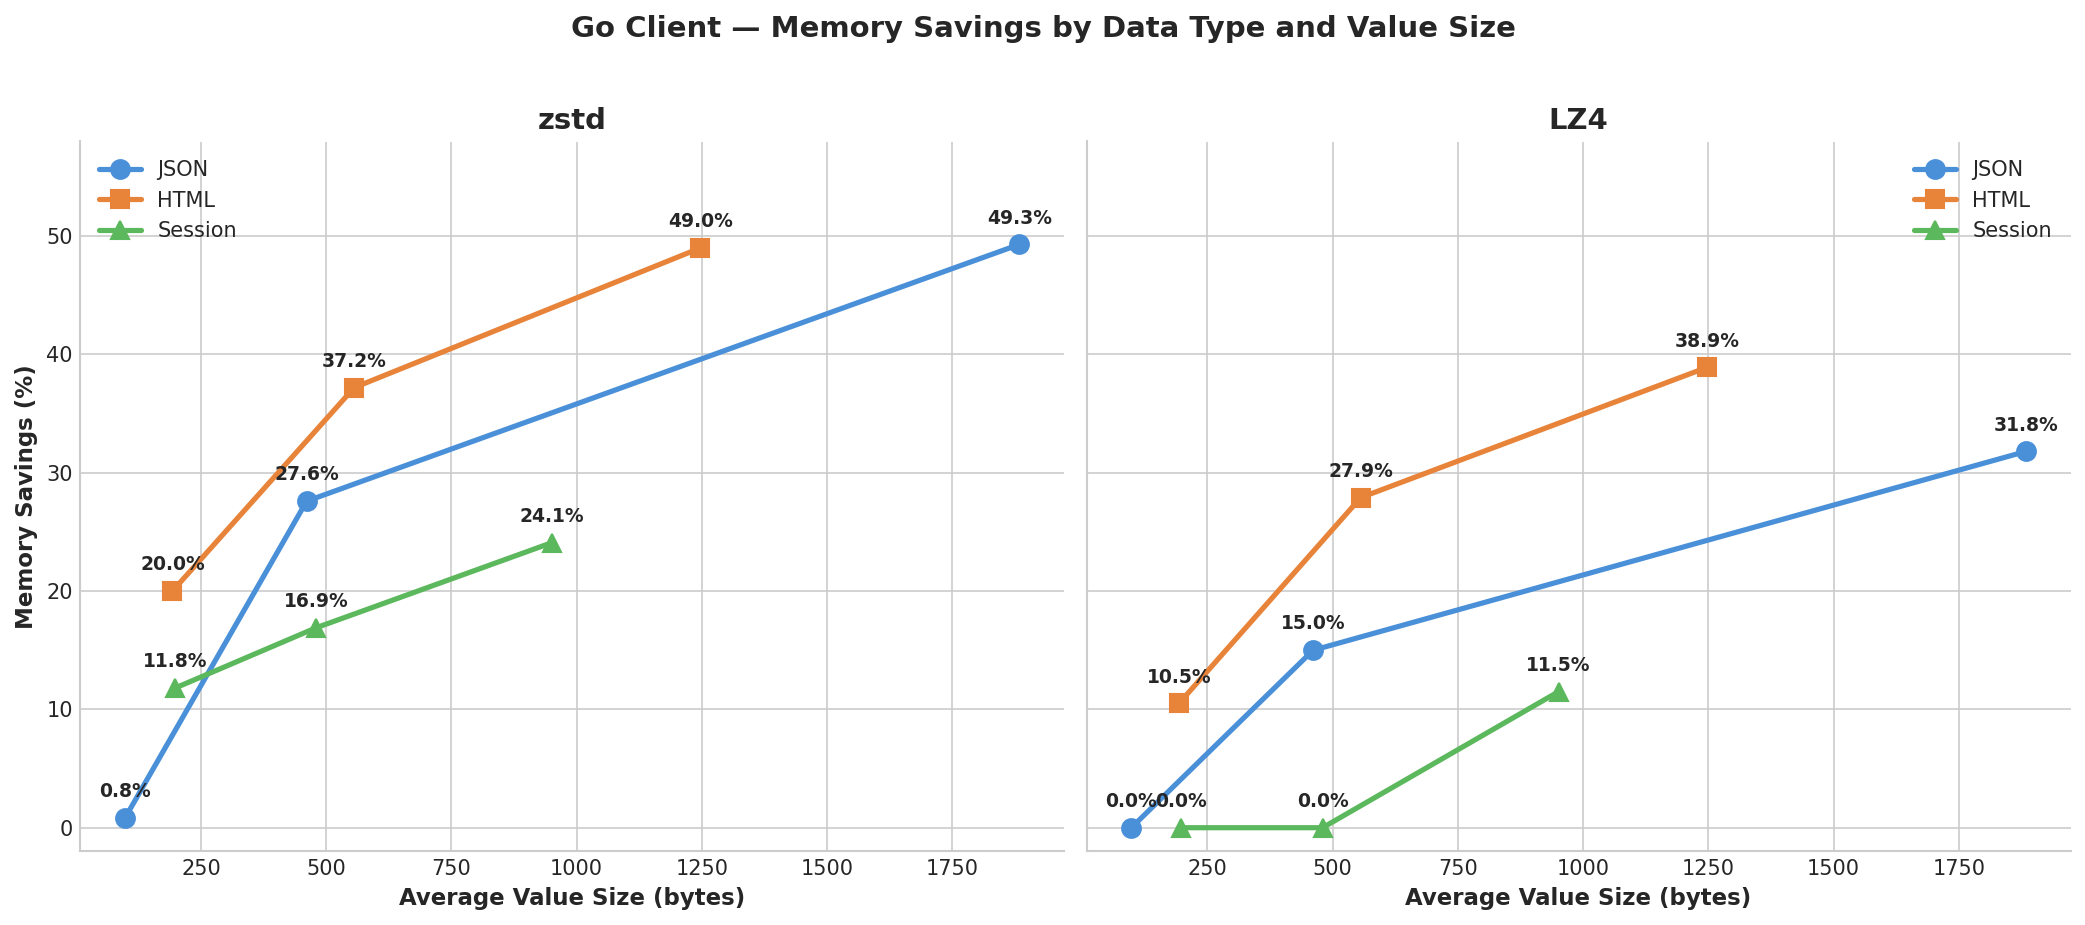
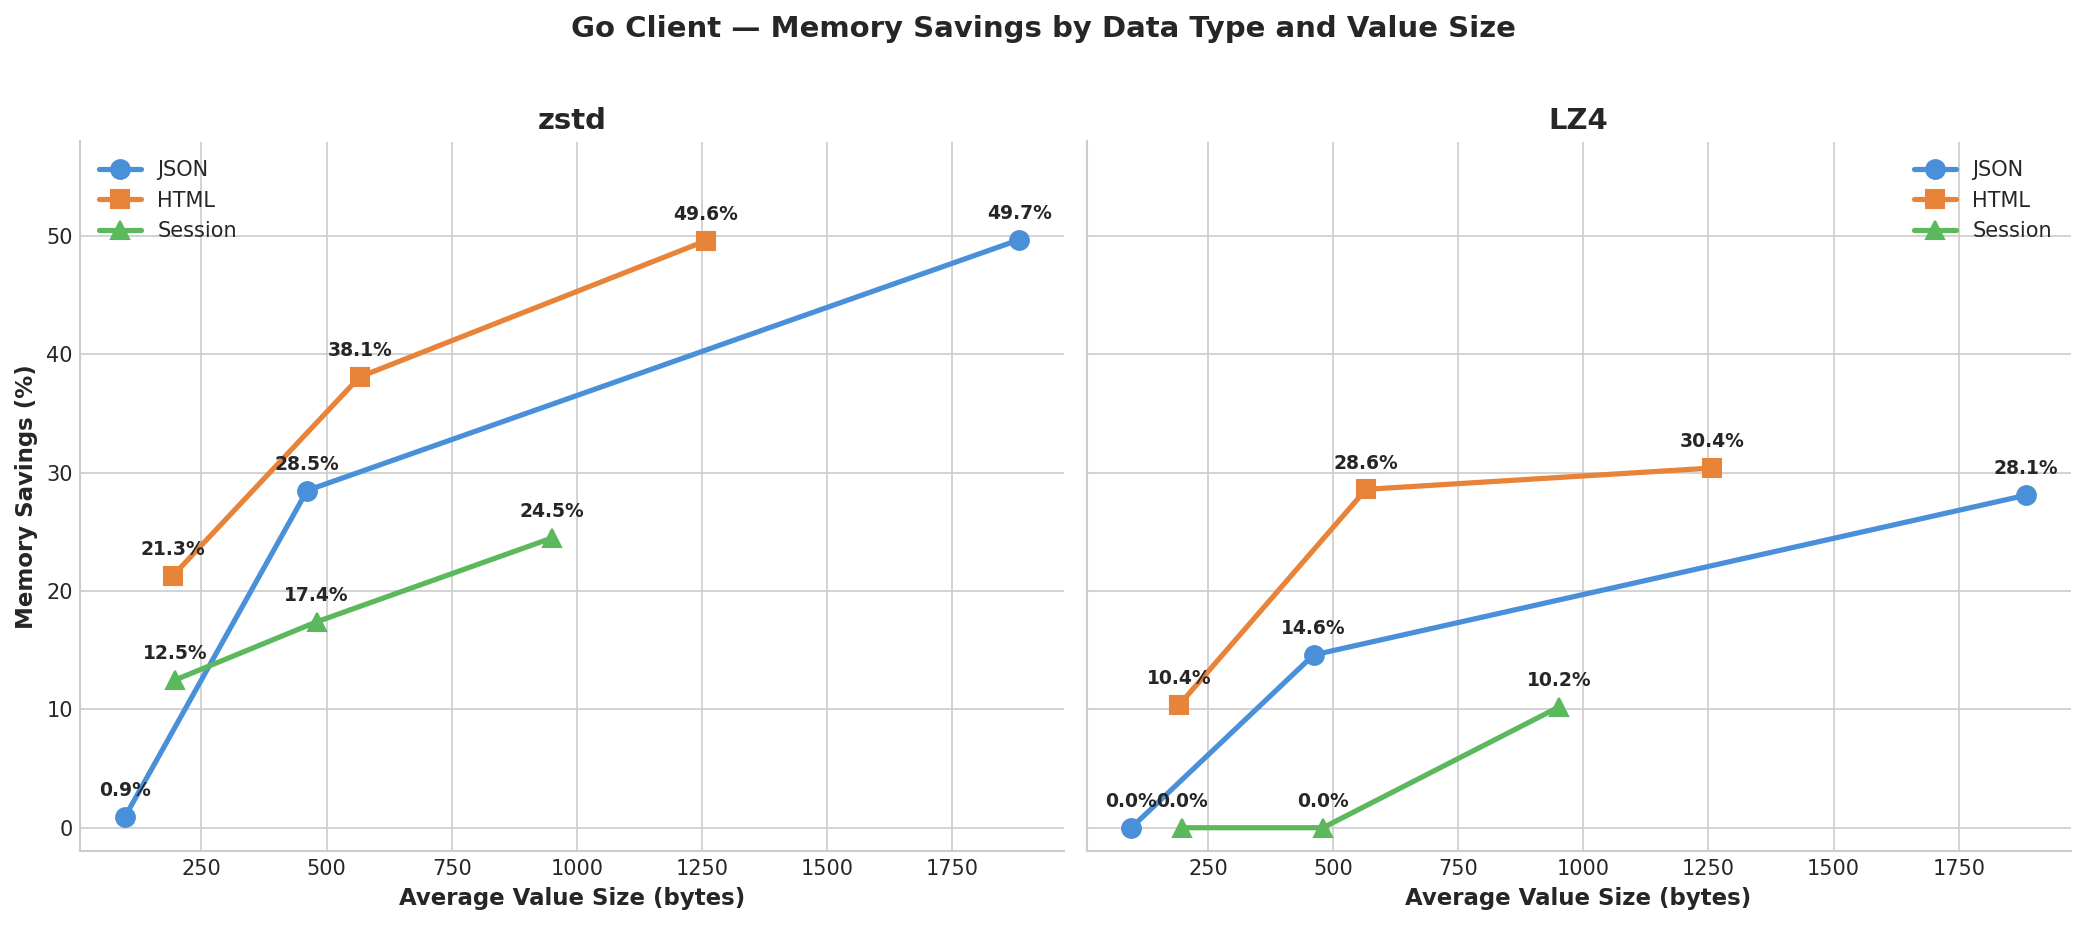
Update benchmarks to Valkey 9.0.3 and revise latency analysis
All numbers remeasured on Valkey 9.0.3 with LZ4 level 0 end to end.
The latency section is rewritten around the write-pays, read-gains
asymmetry with p50 and p95 heatmaps. Adds a Best Practices section.

diff --git a/content/blog/2026-03-16-transparent-compression/index.md b/content/blog/2026-03-16-transparent-compression/index.md
@@ -13,7 +13,7 @@ If you're caching JSON API responses, storing user sessions, or buffering HTML f
 
 Transparent compression in [Valkey GLIDE](https://github.com/valkey-io/valkey-glide) is available for all GLIDE-supported languages and offers a seamless solution to reducing Valkey's storage and bandwidth requirements for compatible workloads. When you write data with a `SET` command, GLIDE compresses it before sending it to the server. When you read it back with `GET`, GLIDE decompresses it automatically. You can enable the feature with a single flag in your client configuration and no modifications to your application's logic. In this post, you'll learn how to configure [Valkey GLIDE](https://github.com/valkey-io/valkey-glide) using the Go client for transparent client-side compression and deep-dive into how the compression works. The performance benchmarking data and best practices guidance will help you understand if your caching workload is a good fit for compression and how to get started on savings.
 
-The single configuration change shown below sets up LZ4, the default compression backend, and delivers memory savings of 27.8% with effectively zero throughput/latency impact on our benchmarked 2KB JSON workload.
+The single configuration change shown below sets up LZ4, the default compression backend, and delivers memory savings of 28.1% with effectively zero throughput/latency impact on our benchmarked 2KB JSON workload.
 
 ```go
 cfg := config.NewClientConfiguration().
@@ -64,9 +64,9 @@ The headline memory savings figures are the result of compressing 10,000 ~2KB JS
 
 | Backend | Server Memory | Reduction |
 |---------|--------------|-----------|
-| No compression | 21.4 MB | — |
-| zstd (level 3) | 10.9 MB | 49.3% |
-| LZ4 (level 0) | 15.5 MB | 27.8% |
+| No compression | 21.2 MB | — |
+| zstd (level 3) | 10.7 MB | 49.7% |
+| LZ4 (level 0) | 15.3 MB | 28.1% |
 
 Zstd saves nearly twice as much memory as LZ4 on this JSON workload. But ~2KB JSON payloads are just one scenario and not representative of the typical size of data you might be working with. In practice, you're caching all kinds of data at all kinds of sizes. Below are the results for three common data types — JSON, HTML, and session data — across a variety of value sizes to show what savings look like across representative synthetic workloads.
 
@@ -74,15 +74,15 @@ Zstd saves nearly twice as much memory as LZ4 on this JSON workload. But ~2KB JS
 
 | Data Type | Avg Bytes | zstd Savings | LZ4 Savings |
 |-----------|-----------|-------------|------------|
-| JSON | 98 | 0.8% | 0.0% |
-| JSON | 461 | 27.6% | 15.0% |
-| JSON | 1,884 | 49.3% | 31.8% |
-| HTML | 193 | 20.0% | 10.5% |
-| HTML | 556 | 37.2% | 27.9% |
-| HTML | 1,247 | 49.0% | 38.9% |
-| Session | 198 | 11.8% | 0.0% |
-| Session | 480 | 16.9% | 0.0% |
-| Session | 951 | 24.1% | 11.5% |
+| JSON | 97 | 0.9% | 0.0% |
+| JSON | 461 | 28.5% | 14.6% |
+| JSON | 1,884 | 49.7% | 28.1% |
+| HTML | 193 | 21.3% | 10.4% |
+| HTML | 566 | 38.1% | 28.6% |
+| HTML | 1,257 | 49.6% | 30.4% |
+| Session | 198 | 12.5% | 0.0% |
+| Session | 480 | 17.4% | 0.0% |
+| Session | 951 | 24.5% | 10.2% |
 
 A few patterns jump out:
 
@@ -108,9 +108,9 @@ Here's how throughput scales with goroutines for batch sizes 1 and 10 for SET an
 
 The two algorithms represent a clear tradeoff:
 
-- **LZ4** delivers 27.8% memory savings with minimal throughput impact. Across all 40 LZ4 configurations in the sweep, SET throughput ratio vs uncompressed ranged from 0.87x to 1.07x, with most configurations falling between 0.95x and 1.07x. Some configurations were actually *faster* with LZ4 because smaller payloads reduced network transfer time. Peak throughput with LZ4: 592K SET TPS / 811K GET TPS — matching or exceeding the uncompressed baseline.
+- **LZ4** delivers 28.1% memory savings with minimal throughput impact. Across all 40 LZ4 configurations in the sweep, SET throughput ratio vs uncompressed ranged from 0.76x to 1.10x, with most configurations falling between 0.95x and 1.07x. Some configurations were actually *faster* with LZ4 because smaller payloads reduced network transfer time. Peak throughput with LZ4: 633K SET TPS / 919K GET TPS — matching or exceeding the uncompressed baseline.
 
-- **Zstd** delivers 49.3% memory savings with a moderate CPU cost. SET throughput ratios ranged from 0.41x to 0.97x. The cost is proportional to throughput: at low throughput, zstd costs only 3–7%. At high throughput with batching, the cost grows as compression becomes a larger fraction of total per-operation time.
+- **Zstd** delivers 49.7% memory savings with a moderate CPU cost. SET throughput ratios ranged from 0.38x to 0.96x. The cost is proportional to throughput: at low throughput, zstd costs only 4–7%. At high throughput with batching, the cost grows as compression becomes a larger fraction of total per-operation time.
 
 The heatmap below shows the full picture — SET throughput ratio (compressed / baseline) across every goroutine count and batch size combination tested. Green cells mean compression added no meaningful overhead or was actually faster; red cells indicate where compression CPU cost dominated. LZ4 is green almost everywhere, while zstd shows a clear gradient: low overhead at small batch sizes (where network latency dominates) and increasing cost as batching pushes throughput higher.
 
@@ -118,28 +118,34 @@ The heatmap below shows the full picture — SET throughput ratio (compressed / 
 
 ## Batching Is the Real Throughput Lever
 
-Going from batch size 1 to 50 at 10 goroutines takes baseline SET throughput from 18K to 491K TPS — a 27x improvement that dwarfs any compression effect. Even with zstd compression, batched operations at batch=50 (232K TPS) outperform unbatched uncompressed operations (18K TPS) by 13x. Optimize your batching strategy first, then choose your compression backend.
+Going from batch size 1 to 50 at 10 goroutines takes baseline SET throughput from 29K to 547K TPS — a 19x improvement that dwarfs any compression effect. Even with zstd compression, batched operations at batch=50 (252K TPS) outperform unbatched uncompressed operations (29K TPS) by 9x. Optimize your batching strategy first, then choose your compression backend.
 
-![Bar chart showing throughput increasing from 18K to 491K TPS as batch size grows from 1 to 50 at 10 goroutines](images/graph_batch_impact.png)
+![Bar chart showing throughput increasing from 29K to 547K TPS as batch size grows from 1 to 50 at 10 goroutines](images/graph_batch_impact.png)
 
 ## Latency
 
-At batch=1 (no pipelining), all three backends show similar p50 SET latency — around 0.53ms at 10 goroutines. LZ4 adds essentially nothing. At higher batch sizes, total batch latency — the time a client actually waits for a response — grows for all backends. At batch=10 with 10 goroutines, baseline batch latency rises to ~0.62ms, zstd to ~0.83ms, and LZ4 stays at ~0.62ms. The cost of zstd scales with the number of values compressed per batch, while LZ4 remains close to baseline throughout.
+Compression's latency story is asymmetric: **writes pay, reads gain.**
 
-![Line chart comparing SET latency at various goroutine and batch size configurations for no compression, zstd, and LZ4](images/graph_latency_rerun_remote_nodivide.png)
+The cost lives on the write path. Compressing a value takes real CPU time, and with batching that cost is multiplied by the number of values in the batch. At batch=1 the effect is barely visible — all three backends show similar p50 SET latency, around 0.33ms at 10 goroutines. At batch=10 with 10 goroutines, baseline batch latency rises to ~0.42ms, zstd to ~0.64ms, and LZ4 stays at ~0.46ms. The zstd cost scales with the number of values compressed per batch, while LZ4 remains close to baseline throughout.
+
+The read path is the opposite. Decompression is far cheaper than compression, and every GET moves a payload roughly half the size over the network. At low concurrency that saving is small, but as concurrency grows and queueing dominates latency, moving half the bytes wins outright: zstd GET p95 beat the uncompressed baseline in 30 of 40 configurations tested and stayed within 2% in all but two. At 1000 goroutines the gap is dramatic — batch=10 GET p95 drops from ~95ms uncompressed to ~69ms with zstd, and batch=50 from ~71ms to ~51ms.
+
+The heatmaps below show the full picture for p50 and p95 latency across every goroutine count and batch size. Read the SET rows and GET rows separately: zstd's red gradient in the SET panels is the compression cost growing with batch size, while its GET panels track — and at high concurrency beat — the uncompressed baseline. If your workload is read-heavy, zstd's memory savings come with a latency *improvement* at the tail, not a tradeoff.
+
 ![Heat map comparing SET and GET latencies at various goroutine and batch size configurations for no compression, zstd, and LZ4](images/graph_latency_heatmap.png)
+![Heat map comparing SET and GET p95 latencies at various goroutine and batch size configurations for no compression, zstd, and LZ4](images/graph_latency_heatmap_p95.png)
 
 ## Choosing the Right Configuration
 
-**Start with LZ4** if latency matters. Switch to zstd if you need maximum memory savings and can take a slight hit to latency. The savings you'll see depend heavily on your data type and value size — HTML compresses best, session data compresses least, and anything under 100 bytes isn't worth compressing. Skip compression entirely for already-compressed data (images, video, pre-compressed content).
+**Start with LZ4** if your workload is write-heavy and you want compression to be effectively invisible. Switch to zstd for maximum memory savings — its compression cost lands on the write path, and read-heavy workloads often see tail latency improve rather than degrade. The savings you'll see depend heavily on your data type and value size — HTML compresses best, session data compresses least, and anything under 100 bytes isn't worth compressing. Skip compression entirely for already-compressed data (images, video, pre-compressed content).
 
 **Throughput** can be recovered when using zstd by investing in more compute. Scale your application horizontally or vertically and you can bring zstd throughput up to par with your previously uncompressed workload. While this increases your application's compute costs, the storage savings can completely offset this depending on your throughput vs. storage needs. As an example using on-demand pricing in us-east-1 as of mid-2026: consider a 250GB caching workload running on an AWS r7g.16xlarge ($3.427/hour) served by an application running on a c7g.4xlarge ($0.5781/hour). If zstd can cut your storage requirements by ~40%, you can downgrade your cache instance to an r7g.8xlarge ($1.714/hour) and upgrade your application to a c7g.8xlarge ($1.1562/hour) to make up for the zstd throughput hit for a net savings of $1.1349/hour or a ~28% cost reduction overall.
 
 For value sizes:
 - **Under 100 bytes**: Skip compression. Neither algorithm saves meaningful memory at this size — the 5-byte header overhead and Valkey's per-key metadata dominate.
-- **100–500 bytes**: Savings vary by data type. HTML compresses well even at ~193 bytes (20% zstd / 10.5% LZ4). Worth enabling with zstd; test with LZ4.
-- **500–1,000 bytes**: Solid savings across all data types. Expect 17–49% with zstd and 0–39% with LZ4 depending on data type.
-- **Over 1,000 bytes**: Strongly recommended. Expect 24–50% with zstd and 12–39% with LZ4.
+- **100–500 bytes**: Savings vary by data type. HTML compresses well even at ~193 bytes (21.3% zstd / 10.4% LZ4). Worth enabling with zstd; test with LZ4.
+- **500–1,000 bytes**: Solid savings across all data types. Expect 17–50% with zstd and 0–29% with LZ4 depending on data type.
+- **Over 1,000 bytes**: Strongly recommended. Expect 25–50% with zstd and 10–30% with LZ4.
 
 
 Here's a complete configuration example:
@@ -167,6 +173,20 @@ Compression works identically with `ClusterClient` when you pass the same compre
 ## Gradual Rollout
 
 One of the most practical aspects of GLIDE's compression design is that you don't need to plan a migration. Compression-enabled clients read uncompressed data transparently. Clients configured with zstd can read LZ4-compressed data and vice versa. This means you can roll out incrementally: deploy your application clients with compression enabled, and as keys expire or get updated through normal application flow, data naturally migrates to compressed format — no migration scripts, no downtime.
+
+## Best Practices
+
+**Enable compression on readers before writers.** A client with compression configured reads everything — uncompressed values, and compressed values from either backend. A client *without* compression configured has no decompression path and will return compressed values as raw bytes. Roll out the configuration to every client that reads a keyspace before any client starts writing compressed data to it. The same applies to one-off consumers people forget about: debugging scripts, CLI inspection, batch jobs, and analytics readers.
+
+**Audit for server-side string manipulation first.** Before enabling compression, scan your codebase for the unsupported commands listed above (APPEND, INCR-family, SETRANGE, bit operations). If a keyspace mixes compressible payloads with server-mutated strings, split them across two clients — one with compression, one without — rather than giving up on compression entirely.
+
+**Measure on your own data before fleet-wide rollout.** The data-type table above is a guide, not a promise — savings ranged from 0% to 50% depending on content and size. Write a representative sample of your real values through a compression-enabled client and compare Valkey's `used_memory` against an uncompressed baseline. The [interactive compression session](https://github.com/valkey-io/valkey-glide/blob/main/examples/python/interactive_compression_session.py) example makes this a five-minute exercise: paste in your own values and its `compare_compression()` helper stores each one compressed and uncompressed side by side, reporting per-key memory and percent saved. An hour of measurement beats a capacity plan built on someone else's corpus.
+
+**Tune `MinCompressionSize` to your value distribution.** The 64-byte default is conservative. If your small values are UUIDs, tokens, or counters — high-entropy data that won't compress — raise the threshold to skip them entirely and spend compression CPU only where it pays.
+
+**Expect savings to ramp, not jump.** Existing data stays uncompressed until it's rewritten. `used_memory` declines as keys expire or get updated through normal churn, so a cache with 24-hour TTLs reaches full savings in about a day. If you need the memory back sooner, rewrite your largest keys explicitly.
+
+**Benchmark zstd writes at your production batch size.** Compression cost scales with the number of values per batch — near-invisible at batch=1, meaningful at batch=50. If you pipeline heavily on the write path, check SET p95 at your real batch size before and after enabling zstd; with LZ4 this is rarely worth the effort.
 
 ## Conclusion
 
